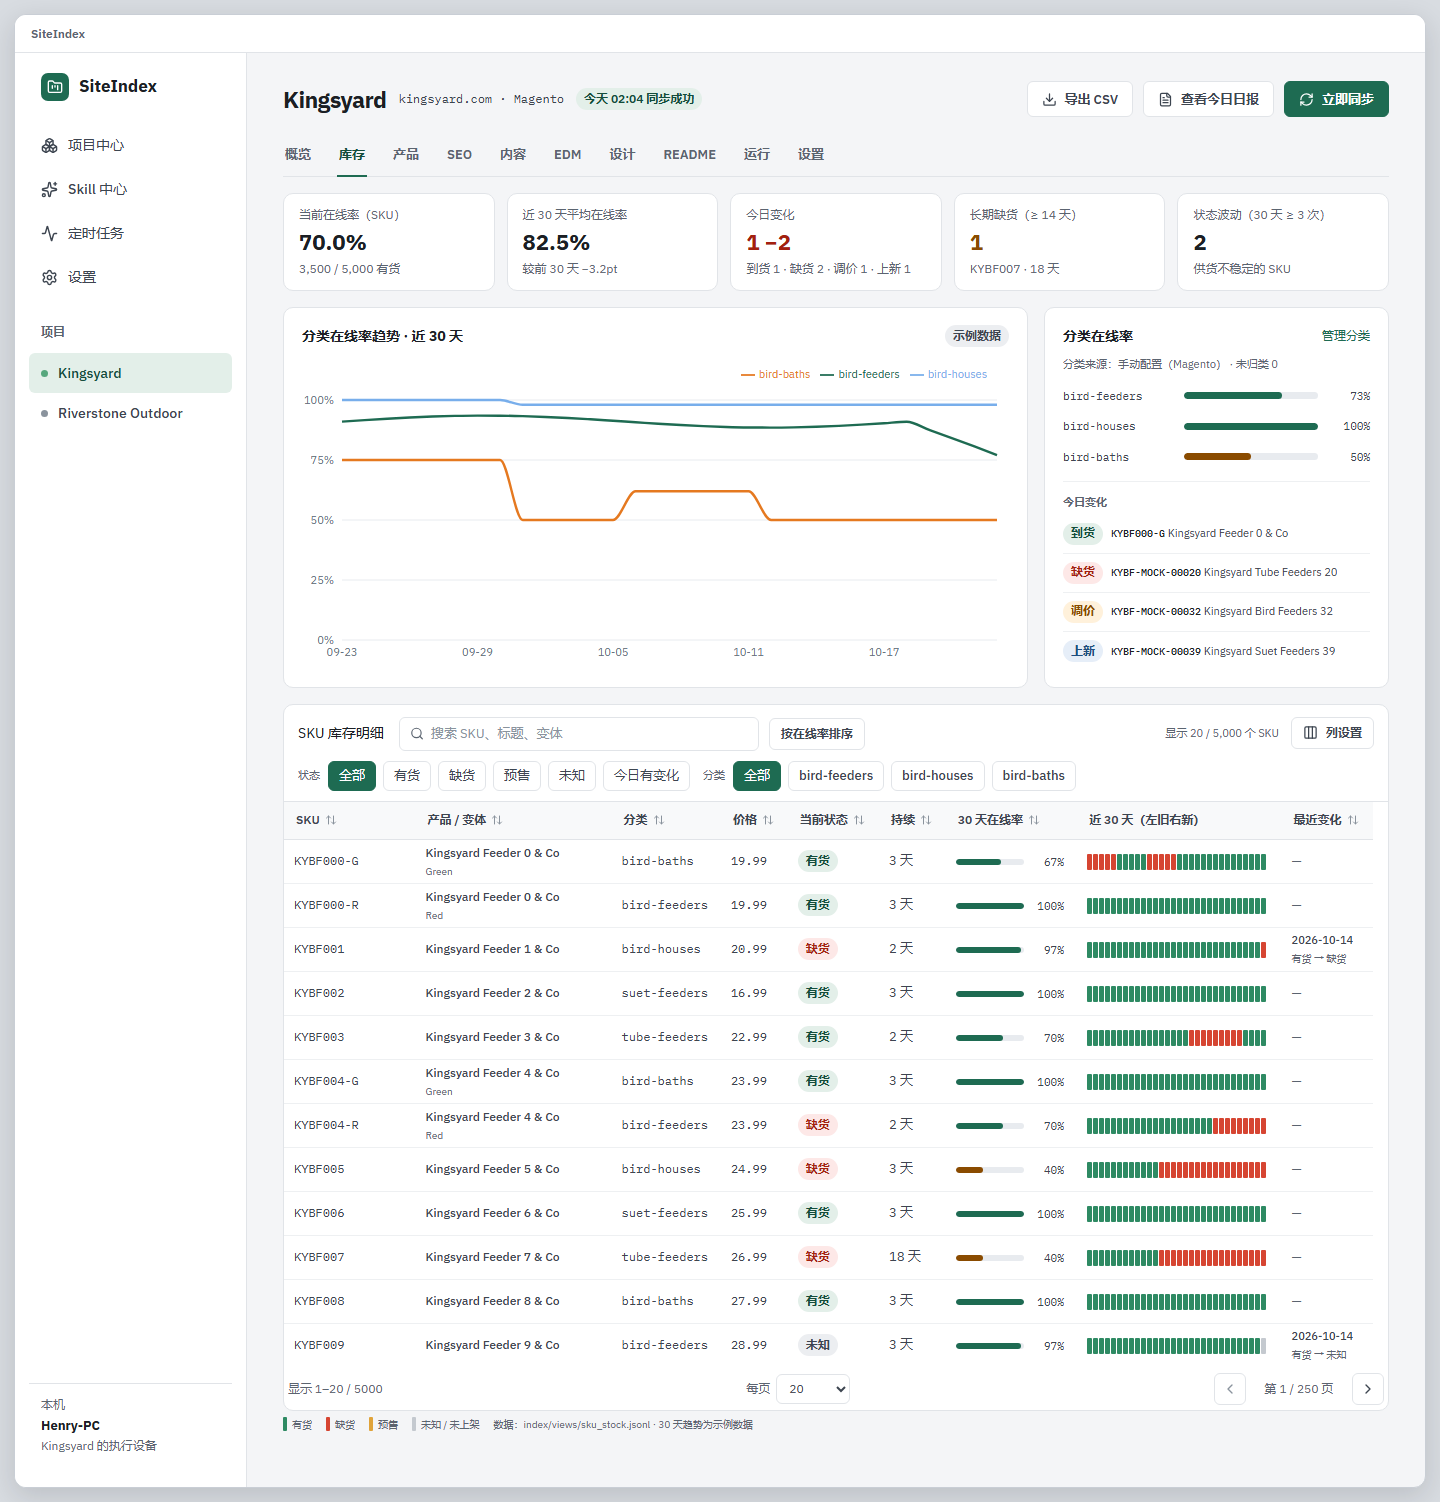
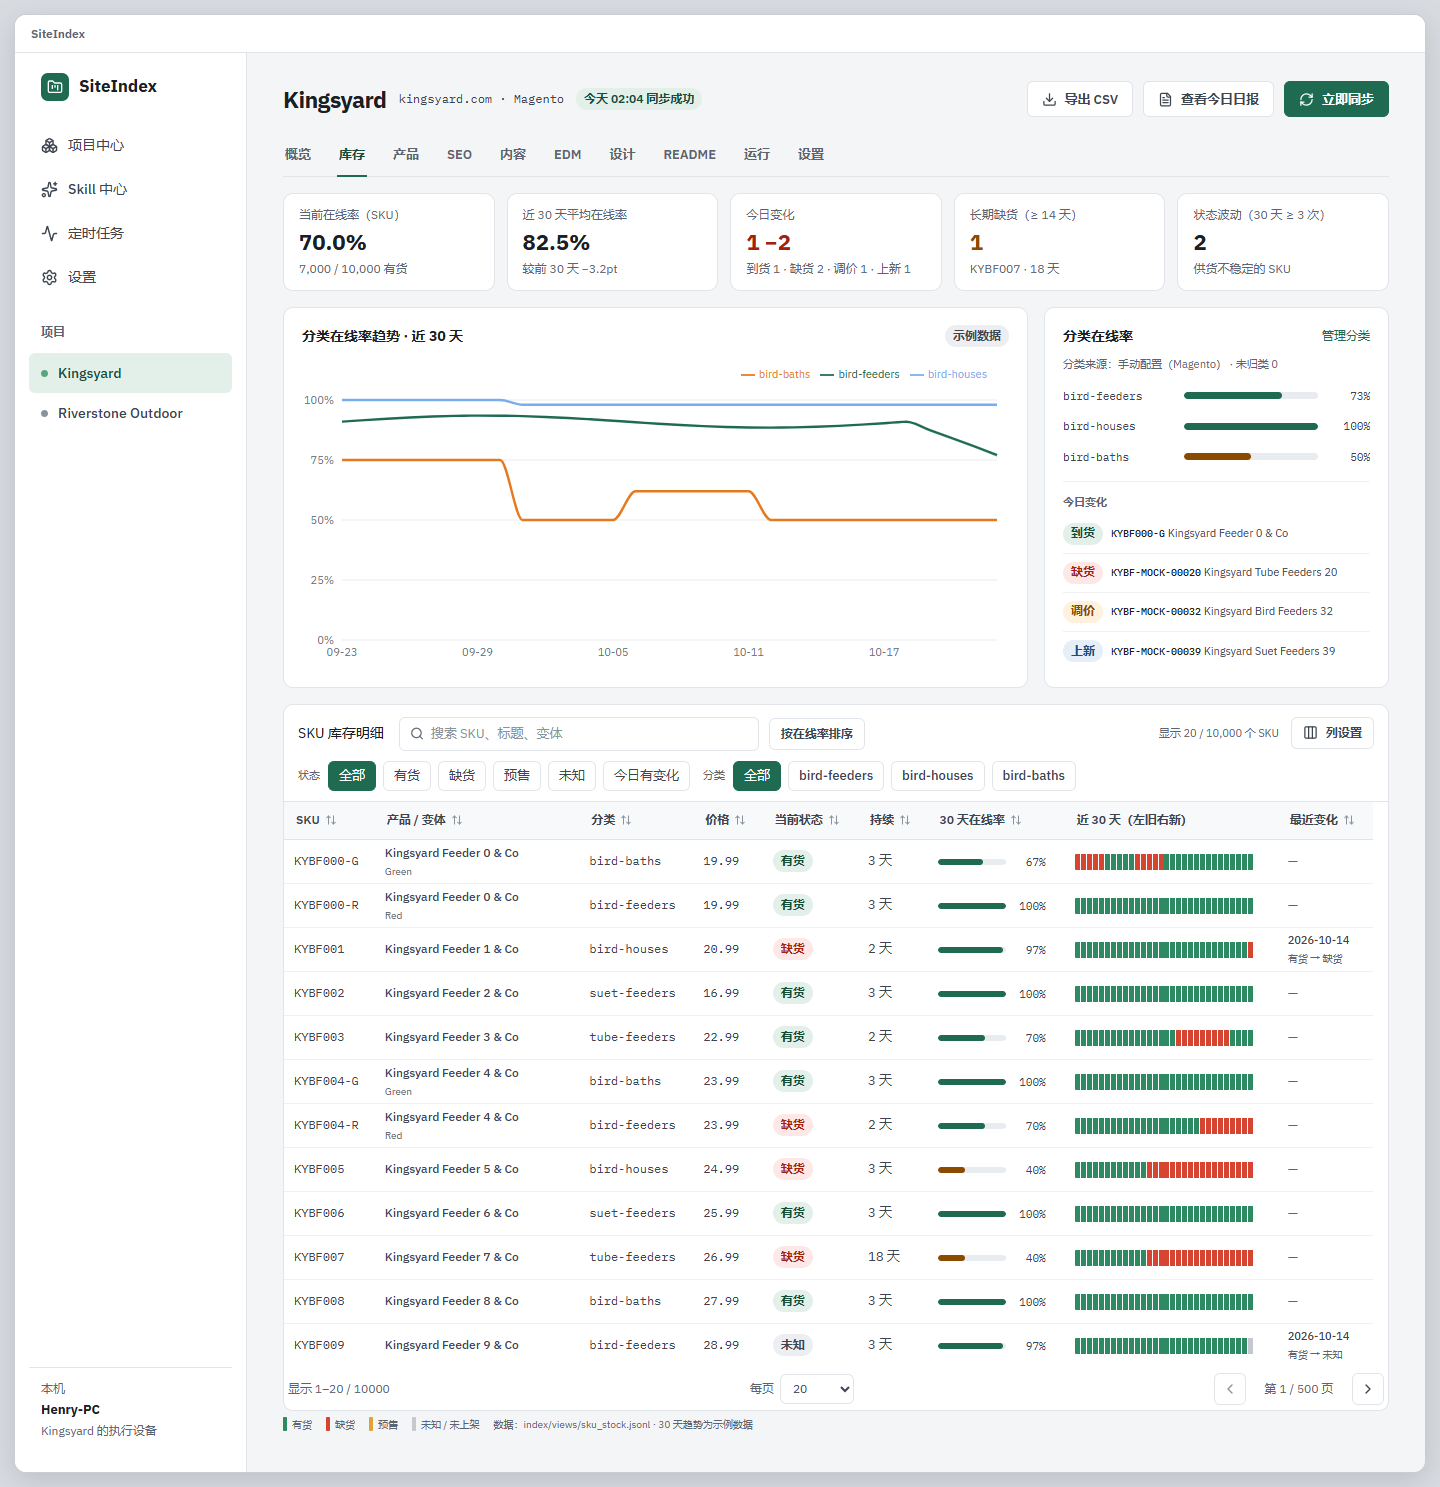
perf(ui): keep 10k SKU inventory interactions responsive

diff --git a/packages/ui/src/mock/context.ts b/packages/ui/src/mock/context.ts
@@ -35,6 +35,7 @@ export const mockMode = typeof window !== "undefined" ? new URLSearchParams(wind
 export const errorMode = mockMode === "error";
 export const performanceMode = mockMode === "perf";
 export const loadingMode = mockMode === "loading";
+export const slowMode = mockMode === "slow";
 export const projectCenterErrorMode = mockMode === "project-center-error";
 export const projectCenterError = (): Error => new Error("模拟项目中心数据错误：请移除地址中的 ?mock=project-center-error 后重试。");
 export const dateBefore = (days: number): string => {
@@ -83,6 +84,7 @@ export const generatedDrafts: DraftRow[] = [
 ];
 export const delay = async (): Promise<void> => {
   if (loadingMode) await new Promise((resolve) => setTimeout(resolve, 10000));
+  else if (slowMode) await new Promise((resolve) => setTimeout(resolve, 300));
   else if (!performanceMode) await new Promise((resolve) => setTimeout(resolve, 100 + Math.floor(Math.random() * 201)));
   if (errorMode) throw new Error("模拟接口错误：请移除地址中的 ?mock=error 后重试。");
 };
@@ -609,15 +611,21 @@ export function inventorySummary(id: ProjectId, days = 30): InventorySummary {
   };
 }
 
+const searchIndexCache = new WeakMap<readonly unknown[], readonly string[]>();
+
 export function selectRows<T, F = Record<string, unknown>>(
   source: readonly T[], query: ListQuery<F>, searchText: (row: T) => string,
   matches: (row: T, filters: F) => boolean = () => true,
 ): PageResult<T> {
   const search = query.search?.trim().toLocaleLowerCase();
-  const filters = (query.filters ?? {}) as F;
-  let rows = source.filter((row) => {
-    return (!search || searchText(row).toLocaleLowerCase().includes(search)) && matches(row, filters);
-  });
+  let searchIndex = search ? searchIndexCache.get(source) : undefined;
+  if (search && !searchIndex) {
+    searchIndex = source.map((row) => searchText(row).toLocaleLowerCase());
+    searchIndexCache.set(source, searchIndex);
+  }
+  let rows = source.filter((row, index) =>
+    (!search || searchIndex?.[index]?.includes(search)) && matches(row, (query.filters ?? {}) as F),
+  );
   if (query.sort) {
     const field = query.sort.field;
     const factor = query.sort.dir === "asc" ? 1 : -1;

diff --git a/packages/ui/src/components/primitives.tsx b/packages/ui/src/components/primitives.tsx
@@ -209,11 +209,20 @@ export const StatusCells = memo(function StatusCells({ history, label = "近 30 
   };
   const cells = history.slice(-30).padStart(30, "-").split("");
   const summary = cells.map((cell) => statuses[cell]?.label ?? "未知").join("、");
-  return (
-    <span className="si-status-cells" role="img" aria-label={label + "：" + summary}>
-      {cells.map((cell, index) => <span key={index} className={"si-status-cell si-status-" + (statuses[cell]?.tone ?? "unknown")} title={dateLabel(index, cells.length) + " · " + (statuses[cell]?.label ?? "未知")} />)}
-    </span>
-  );
+  const colors: Record<string, string> = {
+    in: "var(--color-stock-in)", out: "var(--color-stock-out)", preorder: "var(--color-stock-preorder)",
+    unknown: "var(--color-stock-unknown)", "not-listed": "#E9EBEE",
+  };
+  const unit = 100 / cells.length;
+  const gradient = cells.map((cell, index) => {
+    const start = unit * index;
+    const end = start + unit;
+    const filledEnd = start + unit * (5 / 6);
+    const tone = statuses[cell]?.tone ?? "unknown";
+    return `${colors[tone] ?? colors.unknown} ${start}% ${filledEnd}%, transparent ${filledEnd}% ${end}%`;
+  }).join(", ");
+  const detail = cells.map((cell, index) => dateLabel(index, cells.length) + " · " + (statuses[cell]?.label ?? "未知")).join("；");
+  return <span className="si-status-cells" role="img" aria-label={label + "：" + summary} title={detail} style={{ backgroundImage: `linear-gradient(to right, ${gradient})` }} />;
 });
 
 function dateLabel(index: number, length: number): string {
@@ -226,7 +235,7 @@ export function SearchInput({ value, onSearch, label = "搜索", placeholder = "
   useEffect(() => setDraft(value), [value]);
   useEffect(() => {
     if (draft === value) return;
-    const timer = window.setTimeout(() => onSearch(draft.trim()), 100);
+    const timer = window.setTimeout(() => onSearch(draft.trim()), 50);
     return () => window.clearTimeout(timer);
   }, [draft, onSearch, value]);
   return (

diff --git a/packages/ui/scripts/build-mock-data.ts b/packages/ui/scripts/build-mock-data.ts
@@ -22,8 +22,9 @@ const dailyReports = await Promise.all(reportFiles.map(async (name) => ({
   markdown: await readFile(resolve(reportDirectory, name), "utf8"),
 })));
 
+const generatedSkuCountPerProject = 10_000;
 const mockData = {
-  generatedSkuCount: 10_000,
+  generatedSkuCount: generatedSkuCountPerProject * 2,
   projects: [
     { id: "kingsyard", name: "Kingsyard", domain: "kingsyard.com", source: "fixture" },
     { id: "riverstone", name: "Riverstone Outdoor", domain: "riverstoneoutdoor.com", source: "generated" },
@@ -46,4 +47,4 @@ if (mockData.skus.length === 0 || mockData.products.length === 0) {
 }
 
 await writeFile(resolve(scriptDirectory, "../src/mock/data.json"), `${JSON.stringify(mockData, null, 2)}\n`, "utf8");
-console.log(`Built mock data from Kingsyard fixtures (${mockData.skus.length} seed SKUs, ${mockData.generatedSkuCount} generated SKU slots).`);
+console.log(`Built mock data from Kingsyard fixtures (${mockData.skus.length} seed SKUs, ${generatedSkuCountPerProject.toLocaleString("en-US")} generated SKU slots per project).`);

diff --git a/packages/ui/src/styles/components.css b/packages/ui/src/styles/components.css
@@ -118,7 +118,7 @@ input:focus-visible, select:focus-visible, textarea:focus-visible, a:focus-visib
 .si-pagination-controls button:disabled { color: var(--color-faint); cursor: not-allowed; }
 .si-pagination-controls span { min-width: 90px; text-align: center; }
 
-.si-status-cells { display: inline-flex; gap: 1px; vertical-align: middle; }
+.si-status-cells { display: inline-block; width: 179px; height: 16px; border-radius: 1px; background-repeat: no-repeat; vertical-align: middle; }
 .si-status-cell { display: block; width: 5px; height: 16px; border-radius: 1px; }
 .si-status-in { background: var(--color-stock-in); }
 .si-status-out { background: var(--color-stock-out); }

diff --git a/packages/ui/src/components/table.tsx b/packages/ui/src/components/table.tsx
@@ -79,7 +79,7 @@ export function DataTable<T, F = Record<string, unknown>>({
     count: rowModel.rows.length,
     getScrollElement: () => scrollRef.current,
     estimateSize: () => rowHeight,
-    overscan: 8,
+    overscan: 2,
   });
   const virtualRows = virtualizer.getVirtualItems();
   const firstVirtualRow = virtualRows[0];

diff --git a/packages/ui/src/pages/inventory/page.css b/packages/ui/src/pages/inventory/page.css
@@ -198,8 +198,8 @@ display: grid; gap: 12px; margin-top: 20px;
 margin: 0; color: var(--color-ink); font-size: 13px;
 }
 
-.si-stock-detail-history .si-status-cell {
-width: 7px; height: 18px;
+.si-stock-detail-history .si-status-cells {
+width:239px; height:18px;
 }
 
 .si-report-dialog {
